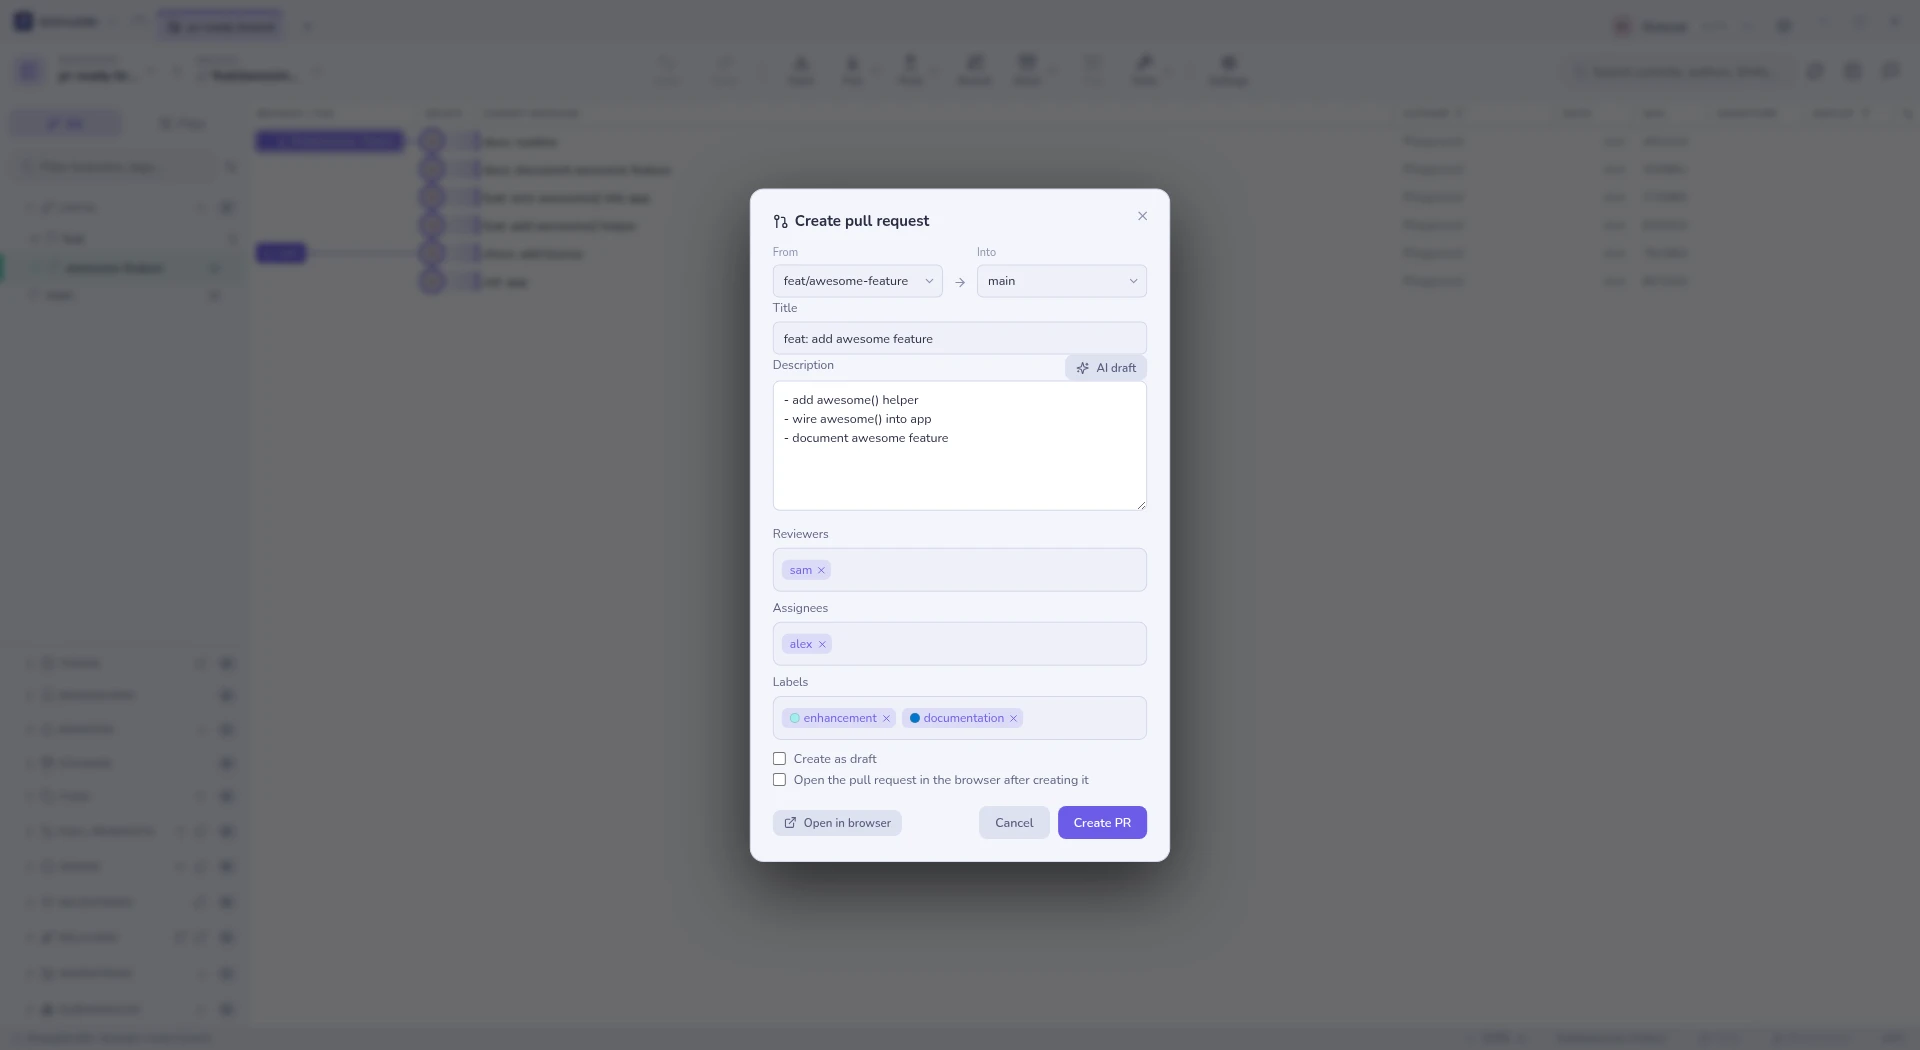
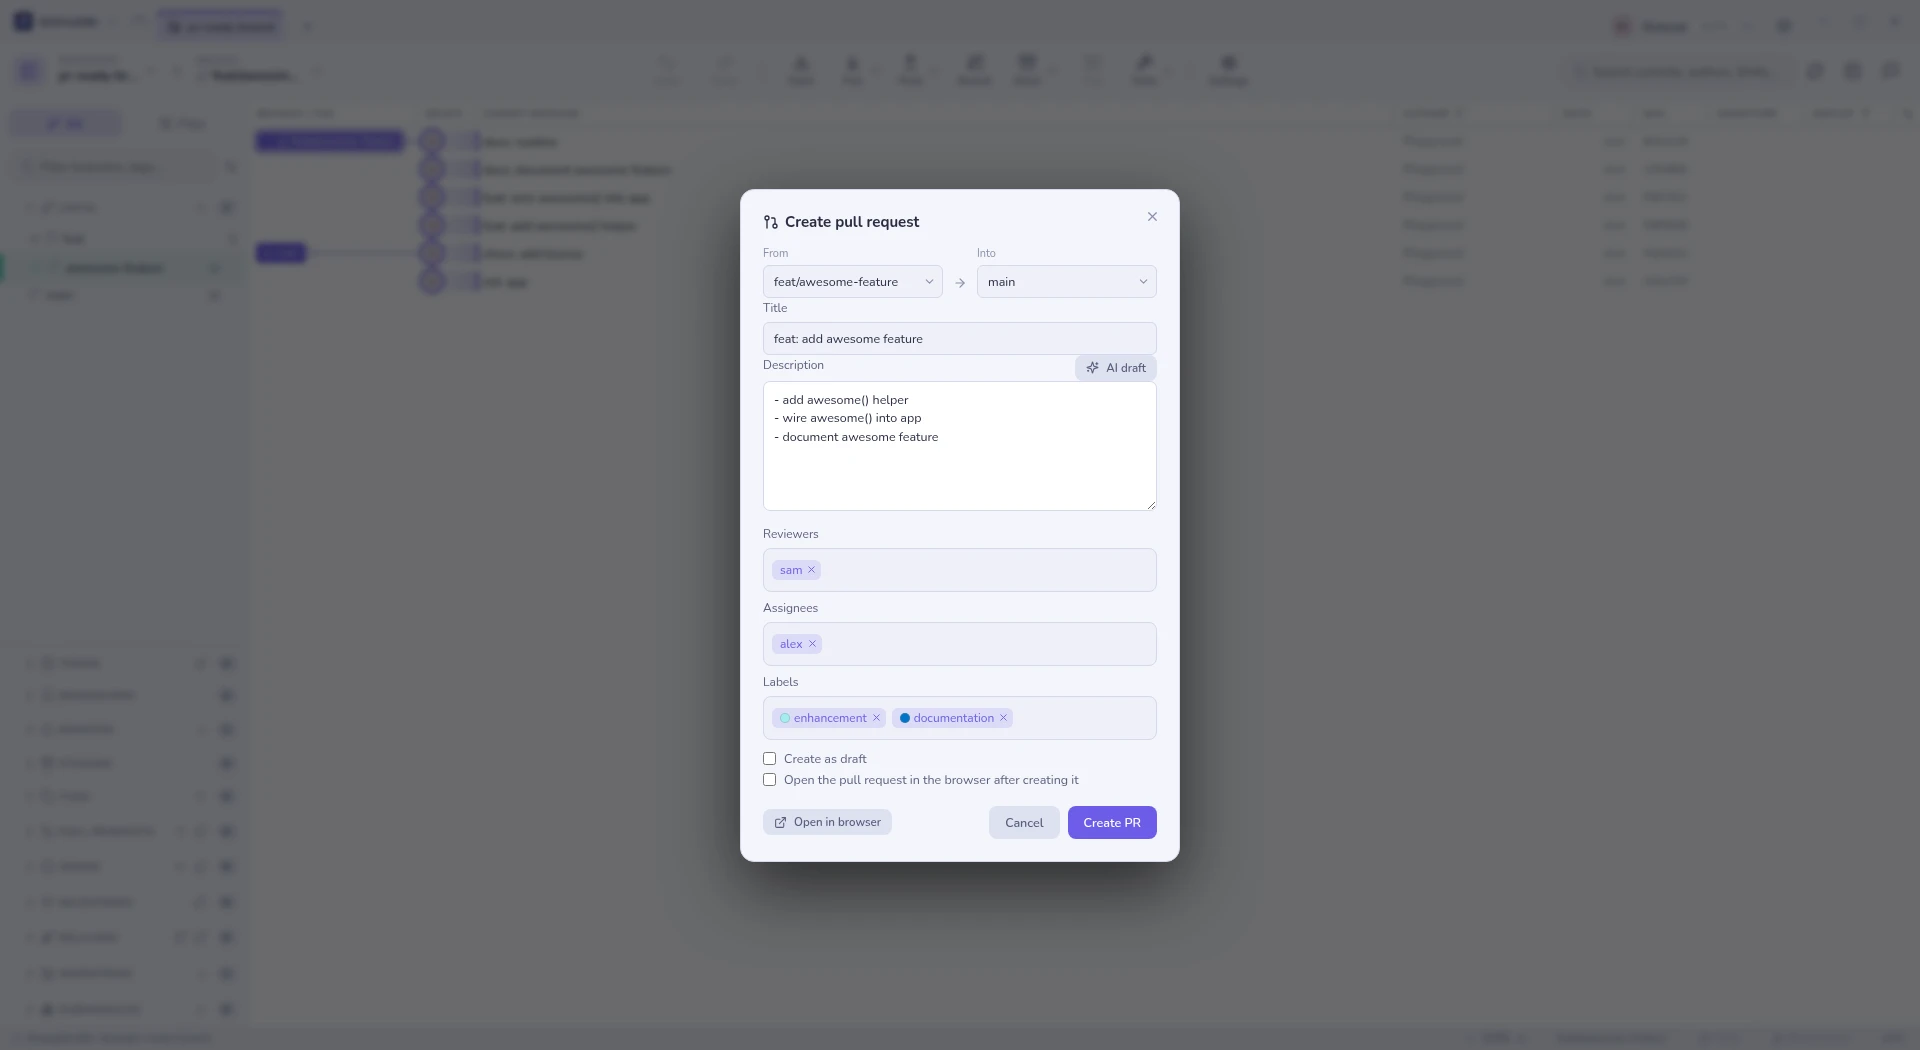
style: widen the create pull request dialog by 20px

Changed region(s): [[0.375, 0.1829, 0.625, 0.8229], [0.4688, 0.6705, 0.5312, 0.701]]

diff --git a/src/renderer/src/components/ModalHost.tsx b/src/renderer/src/components/ModalHost.tsx
@@ -2425,6 +2425,8 @@ export function ModalHost(): React.JSX.Element {
                   ? 'modal-clone'
                   : modal.kind === 'push-branches'
                   ? 'modal-push-branches'
+                  : modal.kind === 'create-pr'
+                  ? 'modal-create-pr'
                   : modal.kind === 'settings'
                   ? 'modal-wide modal-settings'
                   : modal.kind === 'ai-config-wizard'

diff --git a/src/renderer/src/styles.css b/src/renderer/src/styles.css
@@ -5756,6 +5756,12 @@ body.col-resizing .node-ava {
   width: 504px;
 }
 
+/* 20px over the default 420px: the reviewer, assignee and label chips and the
+   two checkboxes breathe without wrapping. */
+.modal-create-pr {
+  width: 440px;
+}
+
 .modal h3 {
   font-size: 15px;
   margin-bottom: 14px;
